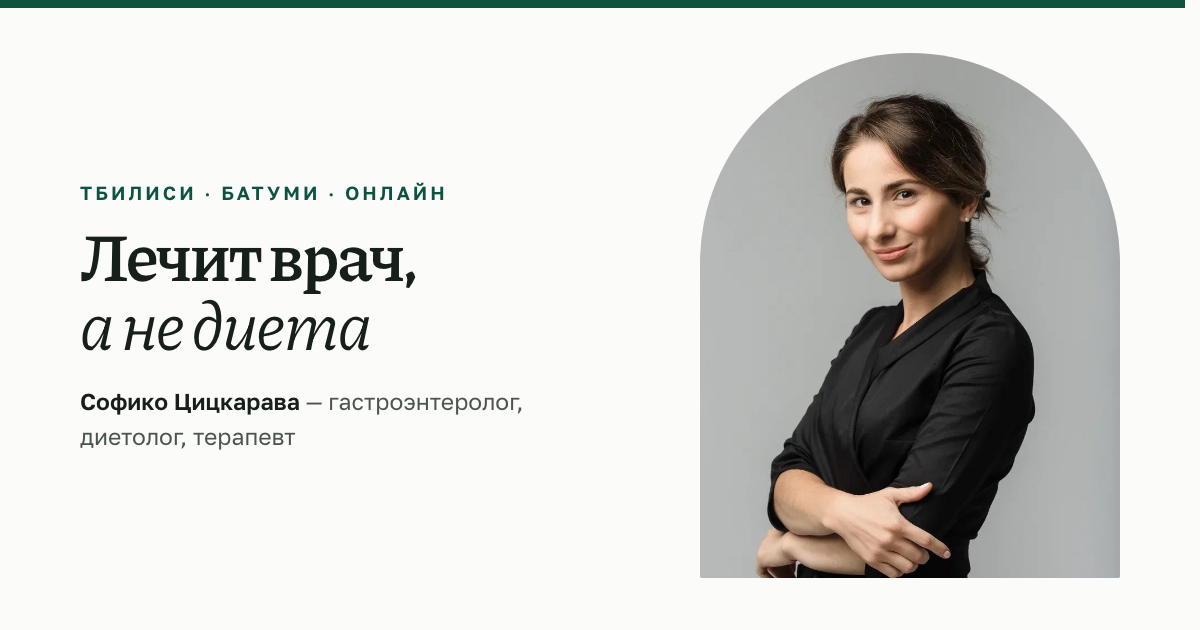
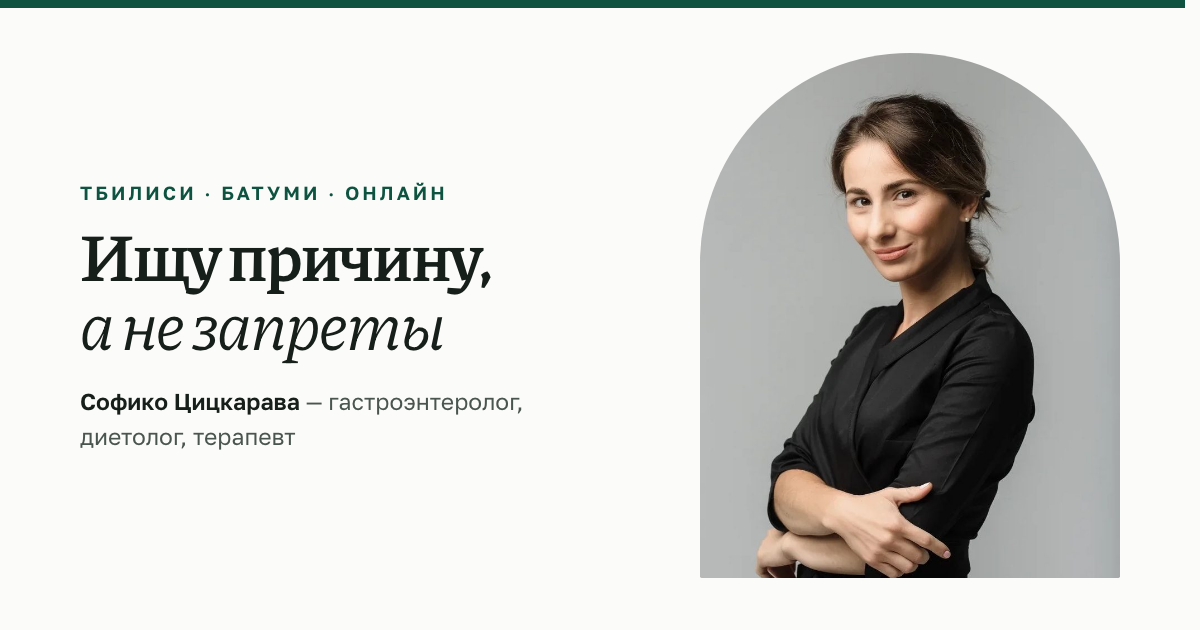
Новый слоган: «Ищу причину, а не запреты» — сайт, соцкартинки, кегль H1 по языкам

Changed region(s): [[0.0617, 0.3619, 0.4317, 0.573]]

diff --git a/index.html b/index.html
@@ -192,8 +192,8 @@
         <circle class="vine-seed" cx="202" cy="51" r="1.7"/>
       </svg>
       <h1>
-        <span class="h1-line"><span>ექიმი გმკურნალობთ,</span></span>
-        <span class="h1-line"><span><em>და არა დიეტა</em></span></span>
+        <span class="h1-line"><span>მიზეზს ვეძებ,</span></span>
+        <span class="h1-line"><span><em>და არა აკრძალვებს</em></span></span>
       </h1>
       <p class="lede">მე ვარ სოფიკო ციცქარავა — გასტროენტეროლოგი, დიეტოლოგი და თერაპევტი. ვეძებ გულძმარვის, შებერილობის, IBS-ის თუ წონის პრობლემების <b>მიზეზს</b> — და ვმკურნალობ მტკიცებულებებზე დაფუძნებული მედიცინით, „ყველაფრის აკრძალვის“ გარეშე. მიღება ქართულ, რუსულ და ინგლისურ ენებზე.</p>
       <p class="clinic-line">პაციენტებს <b>Caraps Medline</b>-ის კლინიკაში ვიღებ — დიღომი და ვაკე, თბილისი. ვმუშაობ ქართულ სადაზღვევოებთან.</p>

diff --git a/style.css b/style.css
@@ -302,6 +302,13 @@
 
     & em{font-style:italic;font-weight:400}
   }
+
+  /* Слоган в переводе длиннее русского: грузинские и английские слова
+     шире, и при общем кегле вторая строка разъезжается на три. Кегль
+     первого экрана — свой для каждого языка, чтобы строки оставались
+     целыми. Внутренних страниц не касается: у них h1.page-title. */
+  html[lang="en"] h1:not(.page-title){font-size:clamp(36px,5.4vw,68px)}
+  html[lang="ka"] h1:not(.page-title){font-size:clamp(32px,4.6vw,56px)}
   /* Контейнер-обрезка для анимации появления строк. Межстрочье в h1
      плотное (1.02), поэтому даём хвостам букв ниже базовой линии
      дополнительное окно — иначе «y», запятые и грузинские глифы

diff --git a/ru/index.html b/ru/index.html
@@ -191,8 +191,8 @@
         <circle class="vine-seed" cx="202" cy="51" r="1.7"/>
       </svg>
       <h1>
-        <span class="h1-line"><span>Лечит врач,</span></span>
-        <span class="h1-line"><span><em>а не диета</em></span></span>
+        <span class="h1-line"><span>Ищу причину,</span></span>
+        <span class="h1-line"><span><em>а не запреты</em></span></span>
       </h1>
       <p class="lede">Я — Софико Цицкарава, гастроэнтеролог, диетолог и терапевт. Ищу <b>причину</b> изжоги, вздутия, СРК или проблем с весом — и лечу по доказательной медицине, без запретов «на всё». Приём на русском, грузинском и английском.</p>
       <p class="clinic-line">Принимаю в клинике <b>Caraps Medline</b> — Дигоми и Ваке, Тбилиси. Работаю с грузинскими страховыми.</p>

diff --git a/en/index.html b/en/index.html
@@ -193,8 +193,8 @@
         <circle class="vine-seed" cx="202" cy="51" r="1.7"/>
       </svg>
       <h1>
-        <span class="h1-line"><span>It's the doctor who treats you,</span></span>
-        <span class="h1-line"><span><em>not the diet</em></span></span>
+        <span class="h1-line"><span>I look for the cause,</span></span>
+        <span class="h1-line"><span><em>not for bans</em></span></span>
       </h1>
       <p class="lede">I'm Sofiko Tsitskarava — a gastroenterologist, dietitian and internist. I look for the <b>cause</b> of heartburn, bloating, IBS or weight problems — and treat it with evidence-based medicine, without putting “everything” off-limits. Consultations in Russian, Georgian and English.</p>
       <p class="clinic-line">I see patients at <b>Caraps Medline</b> — Digomi and Vake, Tbilisi. I accept Georgian insurance.</p>
